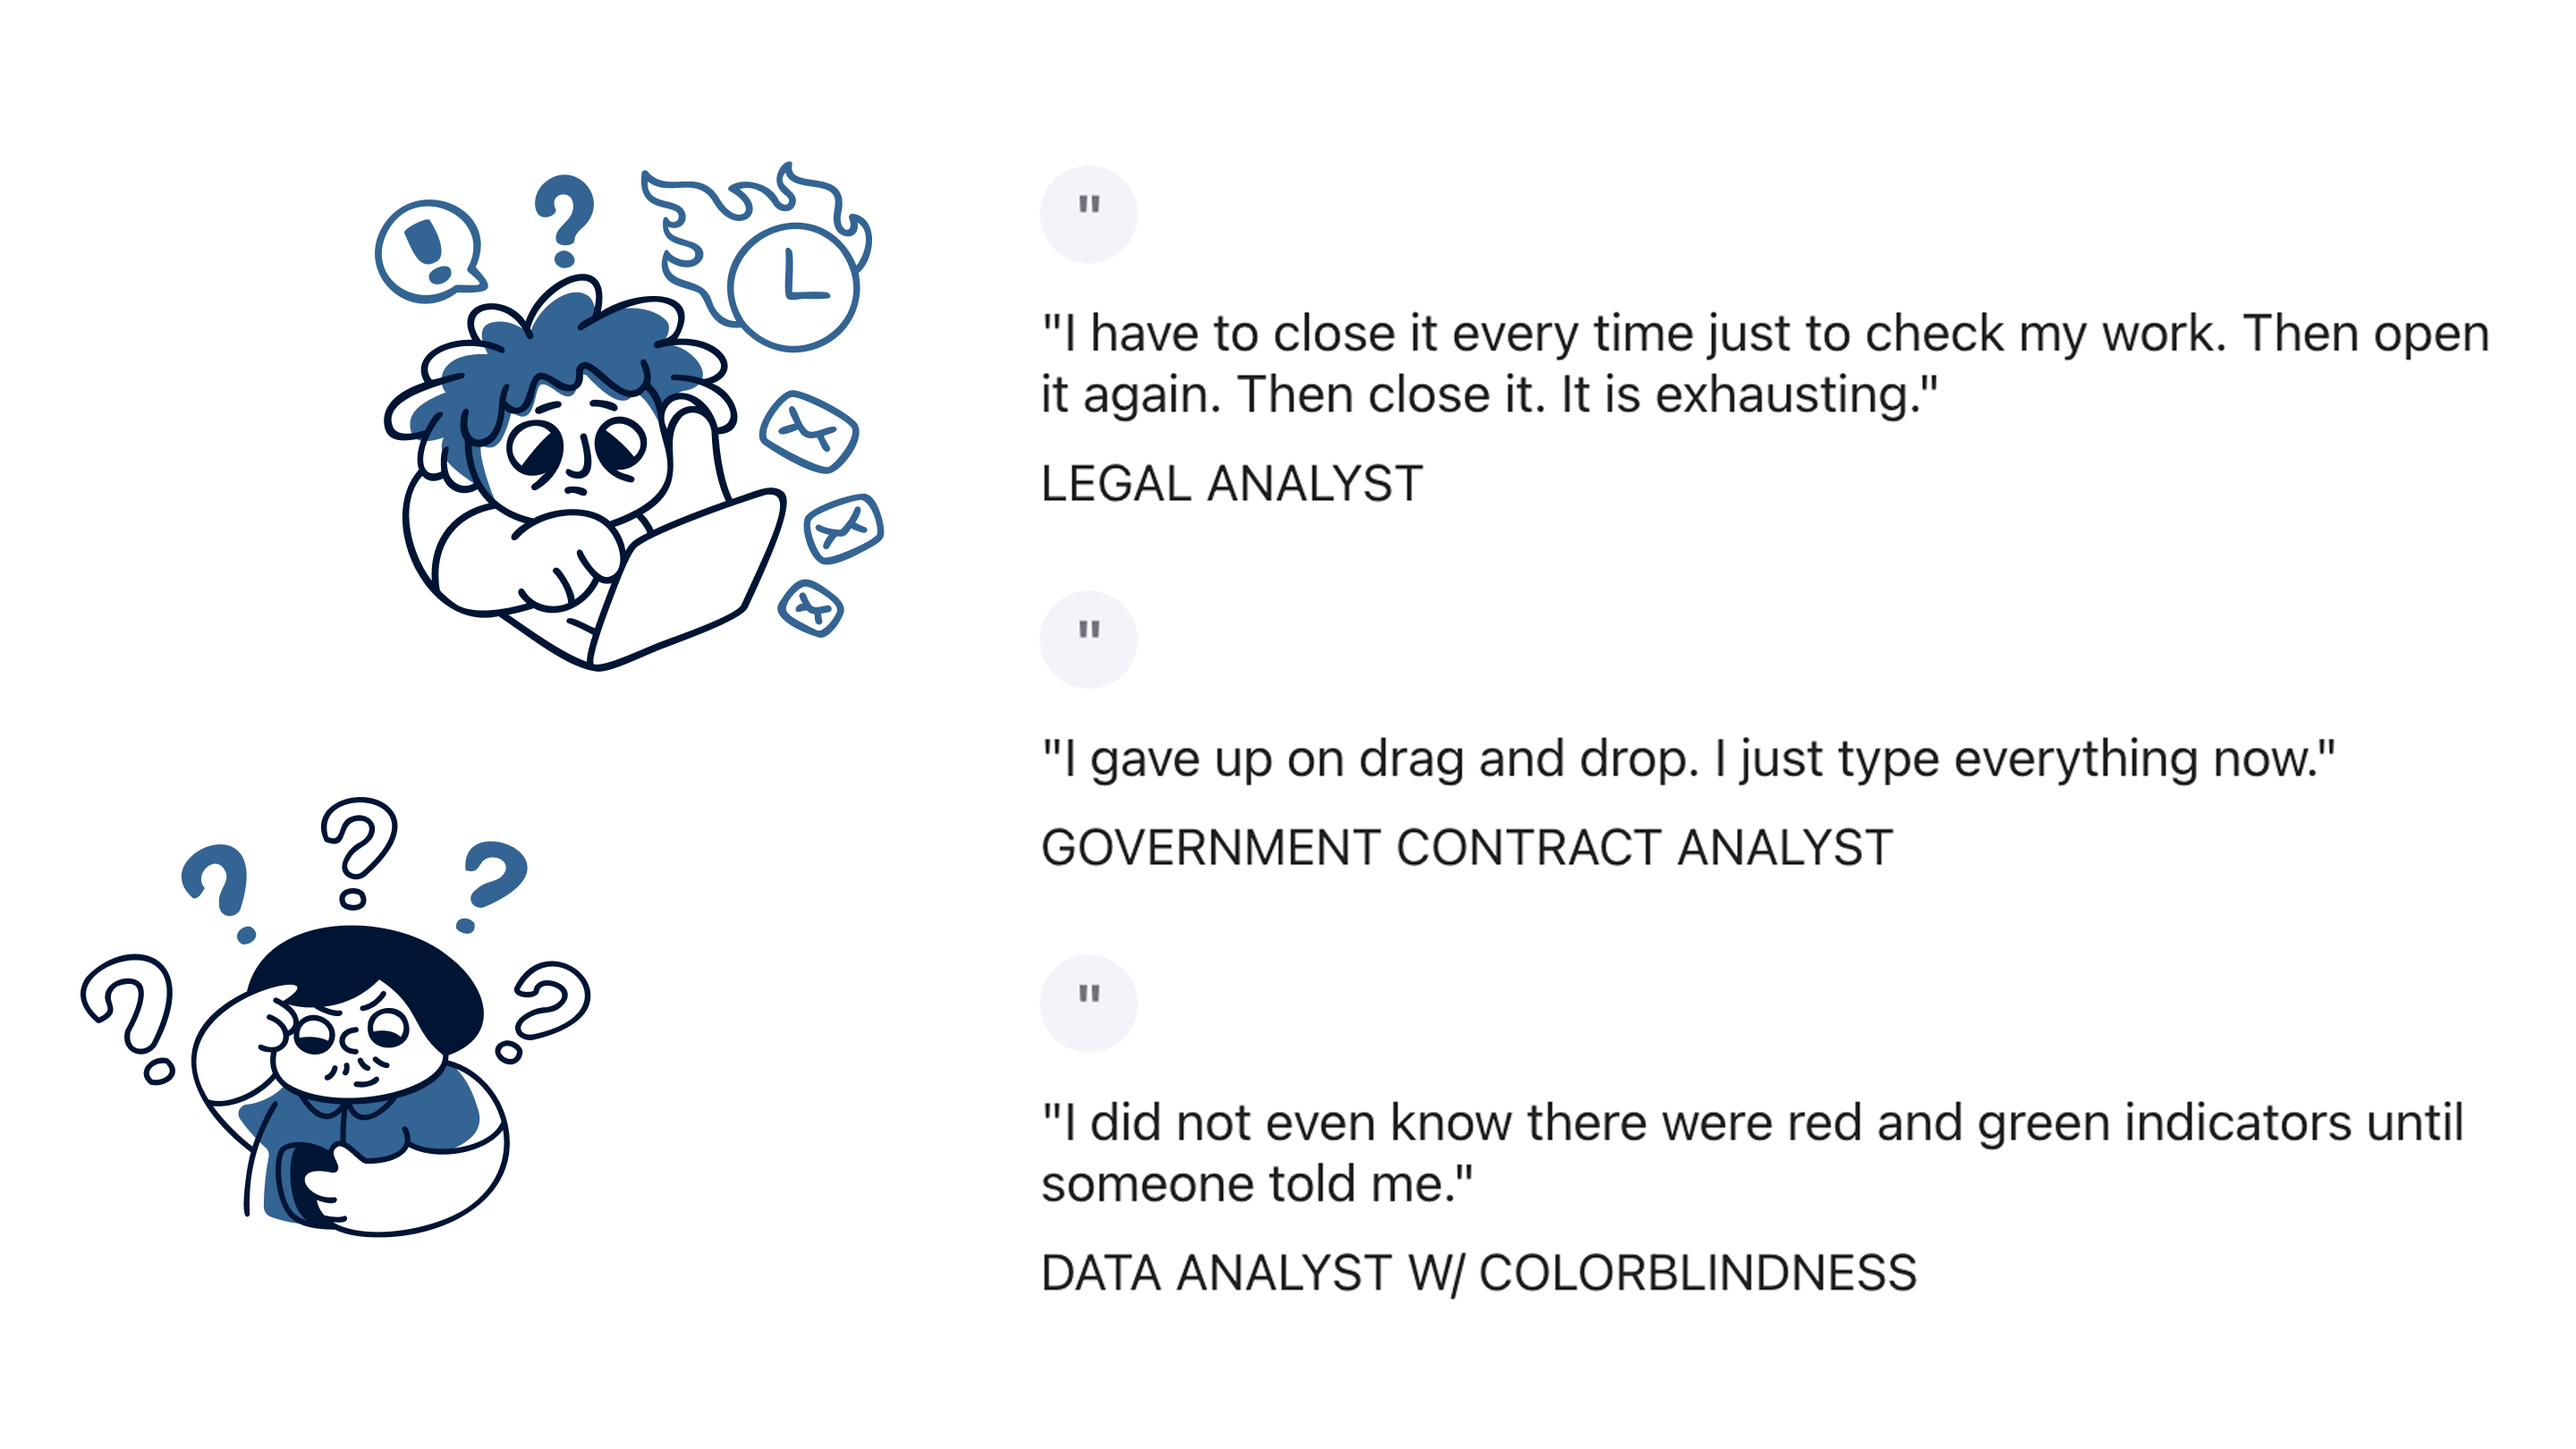
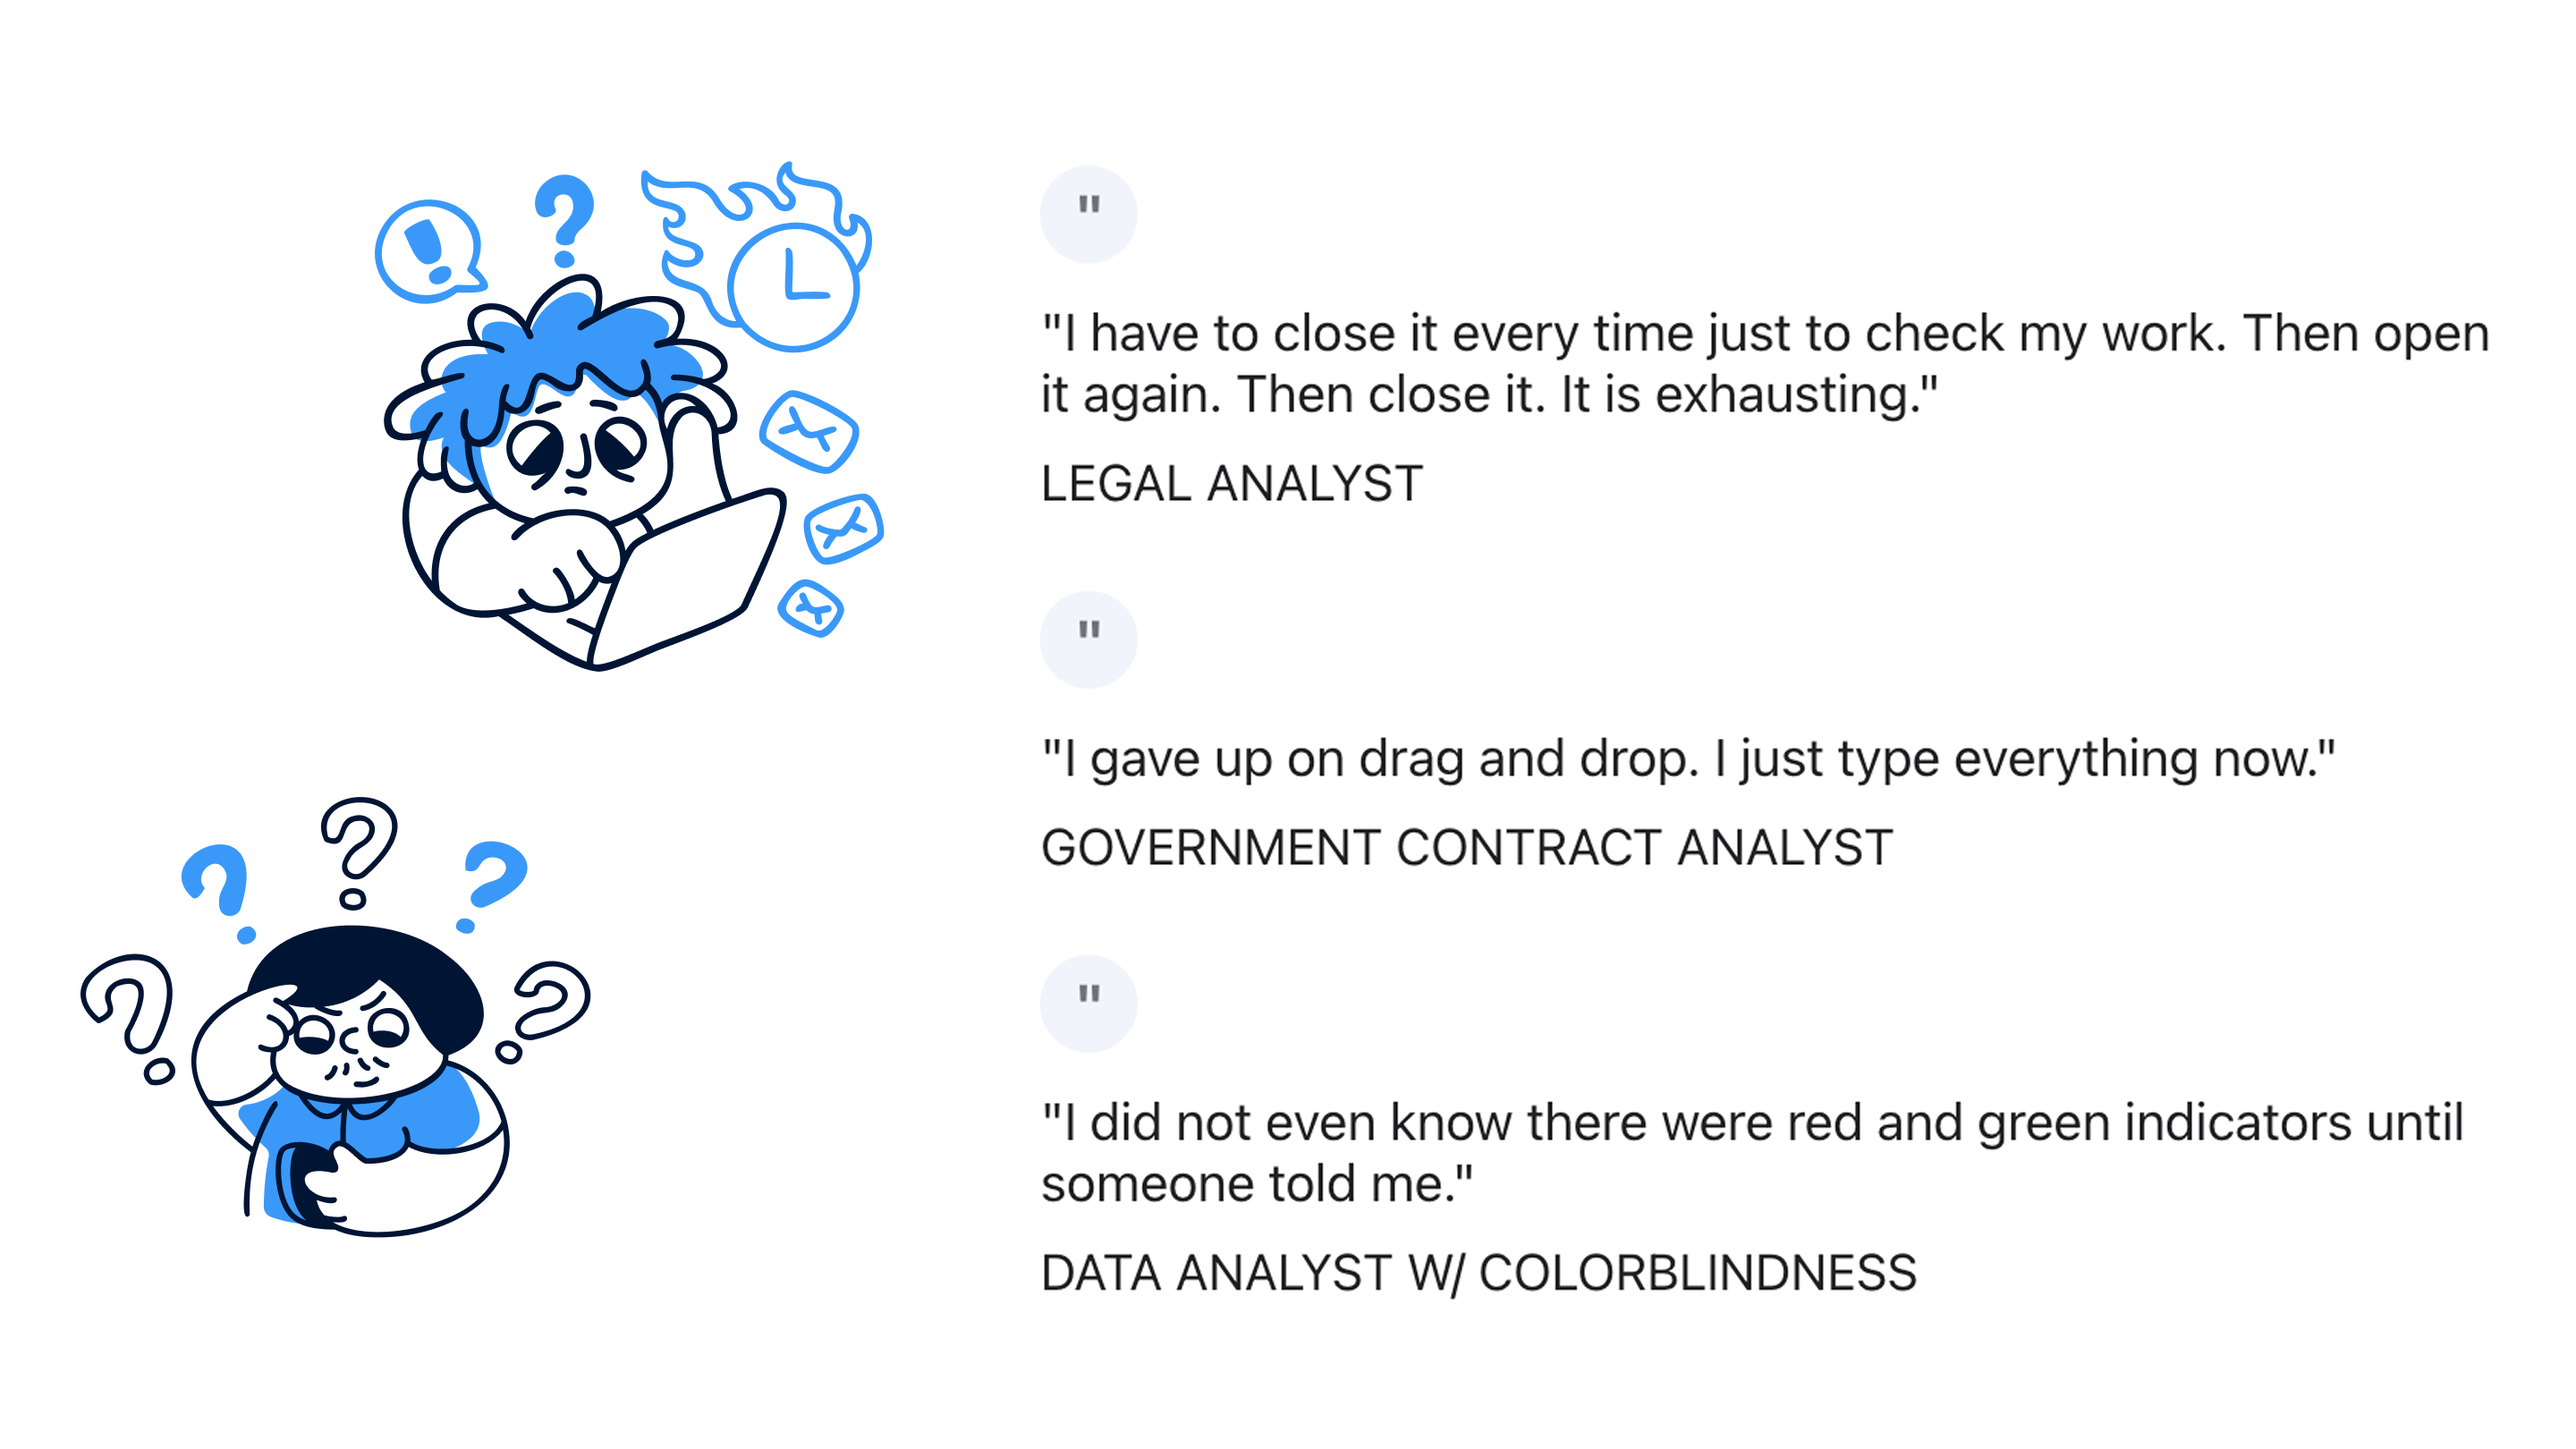
Update user-research and users-could-not visuals, add Four Core Principles section
Refreshed the two existing illustrations to their latest versions, and
added a new "Four Core Principles" subsection at the start of the Solution
chapter with the 4-card summary visual (Visible by Default, Click Not Drag,
Accessible by Design, Built from Design System).

diff --git a/src/pages/work/ExpertAIPage.tsx b/src/pages/work/ExpertAIPage.tsx
@@ -520,7 +520,14 @@ export default function ExpertAIPage() {
             <p className="cs-metric-label" style={{ margin: 0, textTransform: 'uppercase', fontWeight: 400, opacity: 0.7 }}>4. Solution</p>
           </div>
 
-          <div style={{ width: '80%', margin: '32px auto 0' }} data-reveal>
+          <div style={{ marginTop: 32 }}>
+            <SubHeading>Four Core Principles</SubHeading>
+            <figure className="cs-fullwidth-figure" style={{ margin: '24px 0 0' }} data-reveal>
+              <img src={img('four-core-principles.png')} alt="Four core principles: Visible by Default, Click Not Drag, Accessible by Design, Built from Design System" style={{ width: '100%', height: 'auto', display: 'block', borderRadius: 8 }} />
+            </figure>
+          </div>
+
+          <div style={{ width: '80%', margin: '108px auto 0' }} data-reveal>
             <div style={{ border: '1px solid rgba(var(--color-navy-rgb),0.2)', borderRadius: 8, overflow: 'hidden', background: 'transparent' }}>
               <LazyVideo
                 src="/videos/expert.ai-Video.webm"
